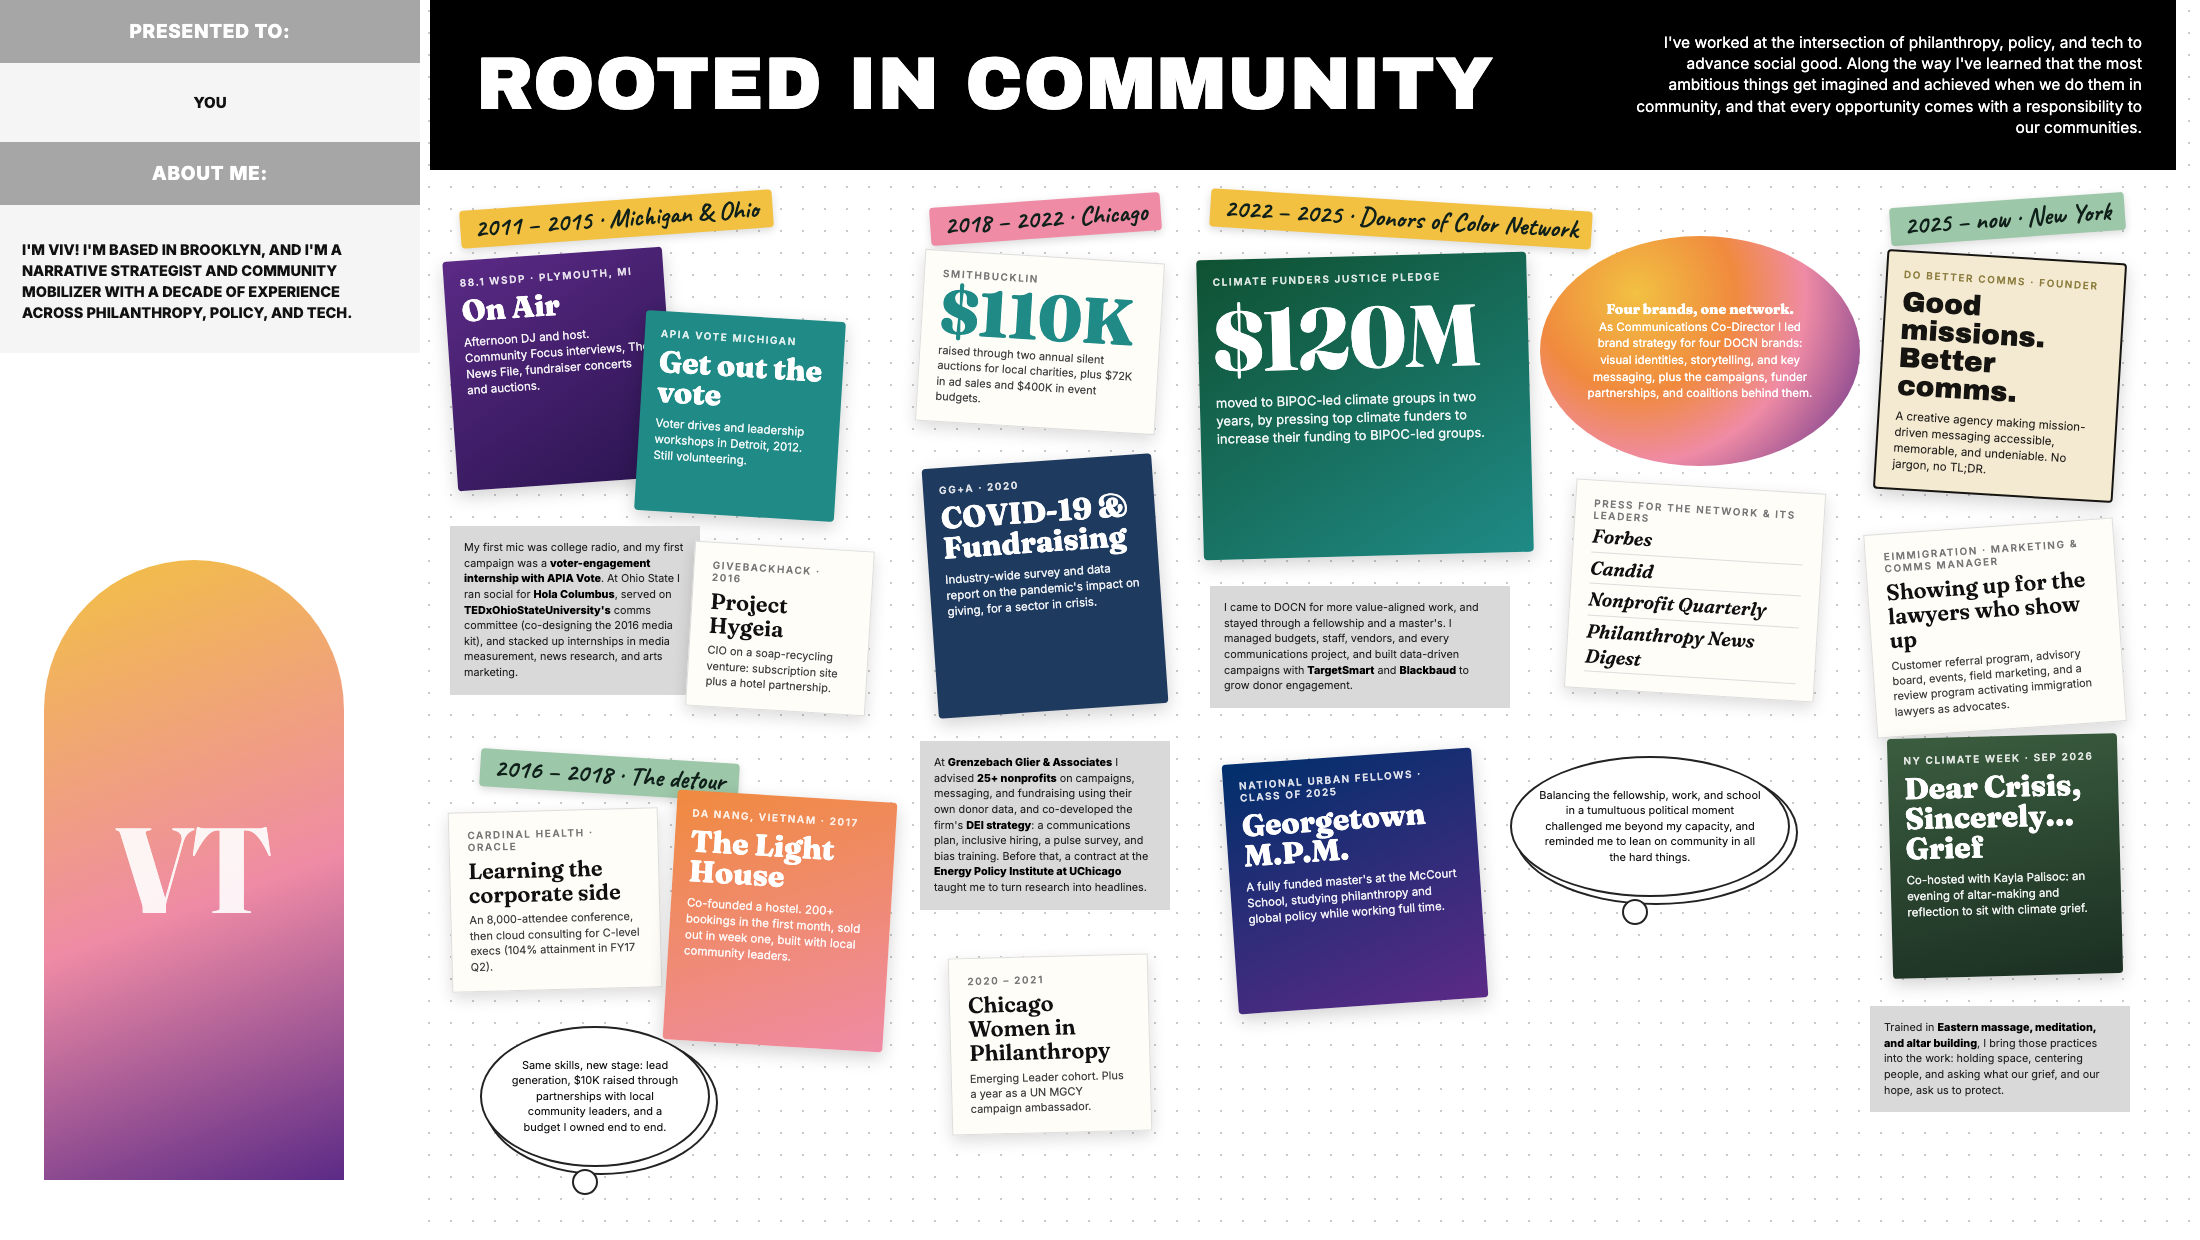
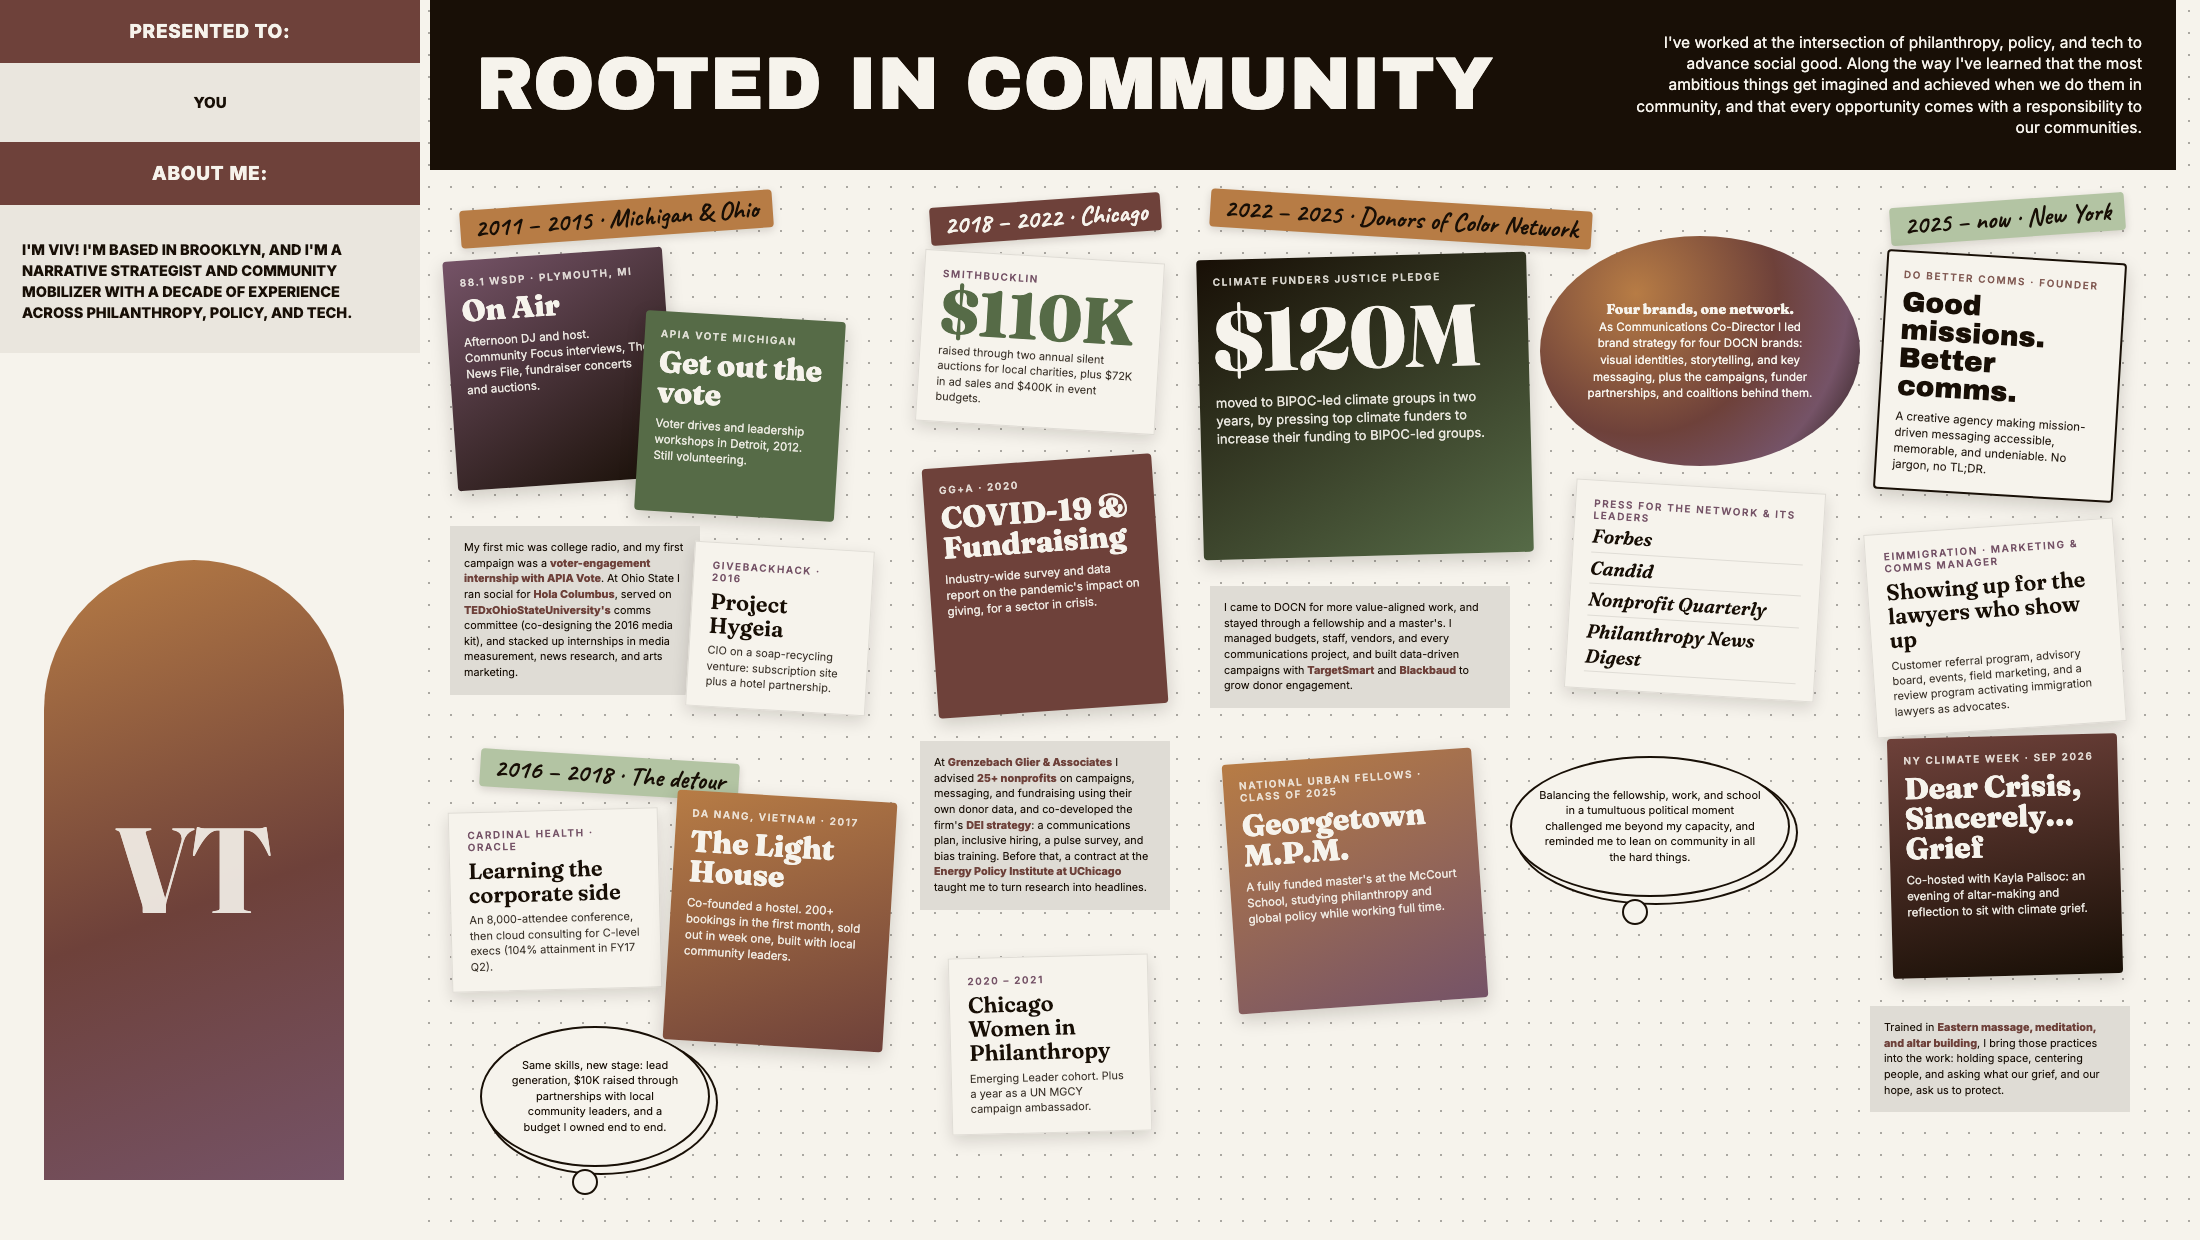
Recolor experience board in the Altarism palette
Altarism brand colors plus a complementary tulsi green; board image re-exported.

diff --git a/experience-board/index.html b/experience-board/index.html
@@ -6,23 +6,23 @@
 <title>Rooted in Community</title>
 <link href="https://fonts.googleapis.com/css2?family=Archivo+Black&family=Fraunces:ital,opsz,wght@0,9..144,600;0,9..144,800;1,9..144,400;1,9..144,600&family=Inter:wght@400;600;800&family=Caveat:wght@600&display=swap" rel="stylesheet">
 <style>
-:root{--ink:#10201a;--lotus:#ef8ba5;--saffron:#f2c142;--sage:#9cc7a8;--plum:#5b2a86;--orange:#f08a3e;--teal:#1f8a86;--paper:#fffdf8;--grey:#a8a8a8}
+:root{/* Altarism palette + Tulsi Green */--ink:#180F06;--cream:#F6F3EC;--ox:#6E413A;--amber:#B77C45;--plum:#755367;--ash:#AAA7A1;--tulsi:#566B47;--tulsi-l:#B3C4A3;--paper:#F6F3EC;--mist:#EAE6DE;--fog:#DFDCD5}
 *{box-sizing:border-box;margin:0;padding:0}
-html,body{background:#e9e6df}
-body{font:12px/1.4 "Inter",sans-serif;color:#111;overflow-x:hidden}
-#stage{width:2200px;height:1240px;transform-origin:0 0;position:relative;background:#fff radial-gradient(#c9c9c9 1.2px,transparent 1.3px) 0 0/22px 22px}
+html,body{background:var(--mist)}
+body{font:12px/1.4 "Inter",sans-serif;color:var(--ink);overflow-x:hidden}
+#stage{width:2200px;height:1240px;transform-origin:0 0;position:relative;background:var(--cream) radial-gradient(var(--ash) 1.2px,transparent 1.3px) 0 0/22px 22px}
 
 /* left column */
-.left{position:absolute;left:0;top:0;width:420px;height:100%;background:#fff}
-.lbl{background:#a6a6a6;color:#fff;font:800 19px "Inter";letter-spacing:.04em;text-align:center;padding:20px 0}
-.val{background:#f5f5f5;text-align:center;font:800 15px "Inter";padding:30px 0}
-.about{background:#f5f5f5;padding:34px 22px 30px;font:800 14.5px/1.45 "Inter";text-transform:uppercase}
-.arch{position:absolute;left:44px;top:560px;width:300px;height:620px;border-radius:150px 150px 0 0;overflow:hidden;background:linear-gradient(160deg,var(--saffron),var(--lotus) 55%,var(--plum));display:grid;place-items:center}
+.left{position:absolute;left:0;top:0;width:420px;height:100%;background:var(--cream)}
+.lbl{background:var(--ox);color:var(--cream);font:800 19px "Inter";letter-spacing:.04em;text-align:center;padding:20px 0}
+.val{background:var(--mist);text-align:center;font:800 15px "Inter";padding:30px 0}
+.about{background:var(--mist);padding:34px 22px 30px;font:800 14.5px/1.45 "Inter";text-transform:uppercase}
+.arch{position:absolute;left:44px;top:560px;width:300px;height:620px;border-radius:150px 150px 0 0;overflow:hidden;background:linear-gradient(160deg,var(--amber),var(--ox) 55%,var(--plum));display:grid;place-items:center}
 .arch img{width:100%;height:100%;object-fit:cover;position:absolute;inset:0}
-.arch span{font:800 120px "Fraunces";color:#fff;opacity:.9}
+.arch span{font:800 120px "Fraunces";color:var(--cream);opacity:.9}
 
 /* header */
-.top{position:absolute;left:430px;top:0;right:24px;height:170px;background:#000;color:#fff;display:flex;align-items:center;justify-content:space-between;padding:0 34px 0 46px;gap:30px}
+.top{position:absolute;left:430px;top:0;right:24px;height:170px;background:var(--ink);color:var(--cream);display:flex;align-items:center;justify-content:space-between;padding:0 34px 0 46px;gap:30px}
 .top h1{font:400 74px/1 "Archivo Black";letter-spacing:.01em;white-space:nowrap}
 .top p{font:500 15.5px/1.38 "Inter";text-align:right;max-width:520px}
 
@@ -31,24 +31,24 @@ body{font:12px/1.4 "Inter",sans-serif;color:#111;overflow-x:hidden}
 .item{position:absolute}
 .tilt-l{transform:rotate(-4deg)} .tilt-r{transform:rotate(3.5deg)} .tilt-s{transform:rotate(-1.5deg)}
 
-.poster{border-radius:4px;box-shadow:0 6px 18px rgba(0,0,0,.18);overflow:hidden;padding:16px;color:#fff}
+.poster{border-radius:4px;box-shadow:0 6px 18px rgba(24,15,6,.18);overflow:hidden;padding:16px;color:var(--cream)}
 .poster img{position:absolute;inset:0;width:100%;height:100%;object-fit:cover}
 .poster .k{font:600 10px "Inter";letter-spacing:.16em;text-transform:uppercase;opacity:.85}
 .poster h3{font:800 30px/1 "Fraunces";margin:8px 0}
 .poster p{font-size:11.5px;opacity:.92}
-.caption{background:#d9d9d9;padding:14px 14px;font-size:10.8px;line-height:1.45;color:#222}
-.caption b{color:#000}
-.cloud{background:#fff;border:2px solid #222;border-radius:50%;padding:30px 26px;text-align:center;font-size:11px;line-height:1.4;box-shadow:6px 6px 0 #fff, 6px 6px 0 2px #222}
-.cloud::after{content:"";position:absolute;width:22px;height:22px;border:2px solid #222;border-radius:50%;background:#fff;bottom:-30px;left:40%}
-.oval{border-radius:50%;padding:42px 44px;color:#fff;font-size:11.5px;line-height:1.45;text-align:center;background:radial-gradient(circle at 30% 25%,var(--saffron),var(--orange) 35%,var(--lotus) 60%,var(--plum));display:grid;place-items:center}
+.caption{background:var(--fog);padding:14px 14px;font-size:10.8px;line-height:1.45;color:var(--ink)}
+.caption b{color:var(--ox)}
+.cloud{background:var(--cream);border:2px solid var(--ink);border-radius:50%;padding:30px 26px;text-align:center;font-size:11px;line-height:1.4;box-shadow:6px 6px 0 var(--cream), 6px 6px 0 2px var(--ink)}
+.cloud::after{content:"";position:absolute;width:22px;height:22px;border:2px solid var(--ink);border-radius:50%;background:var(--cream);bottom:-30px;left:40%}
+.oval{border-radius:50%;padding:42px 44px;color:var(--cream);font-size:11.5px;line-height:1.45;text-align:center;background:radial-gradient(circle at 30% 25%,var(--amber),var(--ox) 50%,var(--plum) 75%,var(--ink));display:grid;place-items:center}
 .oval b{font:800 14px "Fraunces"}
-.sticker{white-space:nowrap;font:600 26px/1 "Caveat",cursive;color:var(--ink);background:var(--saffron);padding:6px 14px;border-radius:4px;box-shadow:0 3px 8px rgba(0,0,0,.15)}
-.clip{background:var(--paper);border:1px solid #ddd;box-shadow:0 6px 16px rgba(0,0,0,.14);padding:16px 18px}
-.clip .k{font:600 10px "Inter";letter-spacing:.16em;text-transform:uppercase;color:#777}
+.sticker{white-space:nowrap;font:600 26px/1 "Caveat",cursive;color:var(--ink);background:var(--amber);padding:6px 14px;border-radius:4px;box-shadow:0 3px 8px rgba(24,15,6,.15)}
+.clip{background:var(--paper);border:1px solid var(--fog);box-shadow:0 6px 16px rgba(24,15,6,.14);padding:16px 18px}
+.clip .k{font:600 10px "Inter";letter-spacing:.16em;text-transform:uppercase;color:var(--plum)}
 .clip h3{font:600 22px/1.1 "Fraunces";margin:6px 0}
-.clip p{font-size:11px;color:#444}
+.clip p{font-size:11px;color:var(--ink);opacity:.82}
 .big{font:800 64px/1 "Fraunces"}
-.press span{display:block;font:italic 600 19px/1.3 "Fraunces";border-bottom:1px solid #ddd;padding:3px 0}
+.press span{display:block;font:italic 600 19px/1.3 "Fraunces";border-bottom:1px solid var(--fog);padding:3px 0}
 </style>
 </head>
 <body>
@@ -71,10 +71,10 @@ body{font:12px/1.4 "Inter",sans-serif;color:#111;overflow-x:hidden}
 
     <!-- ERA 1: on air & on the ground -->
     <div class="item sticker tilt-l" style="left:10px;top:4px">2011 – 2015 · Michigan &amp; Ohio</div>
-    <div class="item poster tilt-l" style="left:0;top:58px;width:220px;height:230px;background:linear-gradient(150deg,var(--plum),#2a1450)">
+    <div class="item poster tilt-l" style="left:0;top:58px;width:220px;height:230px;background:linear-gradient(150deg,var(--plum),var(--ink))">
       <div class="k">88.1 WSDP · Plymouth, MI</div><h3>On Air</h3><p>Afternoon DJ and host. Community Focus interviews, The News File, fundraiser concerts and auctions.</p>
       <img src="images/wsdp.jpg" alt="" onerror="this.remove()"></div>
-    <div class="item poster tilt-r" style="left:190px;top:120px;width:200px;height:200px;background:var(--teal)">
+    <div class="item poster tilt-r" style="left:190px;top:120px;width:200px;height:200px;background:var(--tulsi)">
       <div class="k">APIA Vote Michigan</div><h3>Get out the vote</h3><p>Voter drives and leadership workshops in Detroit, 2012. Still volunteering.</p>
       <img src="images/apia-vote.jpg" alt="" onerror="this.remove()"></div>
     <div class="item caption" style="left:0;top:330px;width:250px">My first mic was college radio, and my first campaign was a <b>voter-engagement internship with APIA Vote</b>. At Ohio State I ran social for <b>Hola Columbus</b>, served on <b>TEDxOhioStateUniversity's</b> comms committee (co-designing the 2016 media kit), and stacked up internships in media measurement, news research, and arts marketing.</div>
@@ -82,19 +82,19 @@ body{font:12px/1.4 "Inter",sans-serif;color:#111;overflow-x:hidden}
       <div class="k">GiveBackHack · 2016</div><h3>Project Hygeia</h3><p>CIO on a soap-recycling venture: subscription site plus a hotel partnership.</p></div>
 
     <!-- ERA 2: detour -->
-    <div class="item sticker tilt-r" style="left:30px;top:560px;background:var(--sage)">2016 – 2018 · The detour</div>
+    <div class="item sticker tilt-r" style="left:30px;top:560px;background:var(--tulsi-l)">2016 – 2018 · The detour</div>
     <div class="item clip tilt-s" style="left:0;top:614px;width:210px">
       <div class="k">Cardinal Health · Oracle</div><h3>Learning the corporate side</h3><p>An 8,000-attendee conference, then cloud consulting for C-level execs (104% attainment in FY17 Q2).</p></div>
-    <div class="item poster tilt-r" style="left:220px;top:600px;width:220px;height:250px;background:linear-gradient(160deg,var(--orange),var(--lotus))">
+    <div class="item poster tilt-r" style="left:220px;top:600px;width:220px;height:250px;background:linear-gradient(160deg,var(--amber),var(--ox))">
       <div class="k">Da Nang, Vietnam · 2017</div><h3>The Light House</h3><p>Co-founded a hostel. 200+ bookings in the first month, sold out in week one, built with local community leaders.</p>
       <img src="images/light-house.jpg" alt="" onerror="this.remove()"></div>
     <div class="item cloud" style="left:30px;top:830px;width:230px;position:absolute">Same skills, new stage: lead generation, $10K raised through partnerships with local community leaders, and a budget I owned end to end.</div>
 
     <!-- ERA 3: Chicago -->
-    <div class="item sticker tilt-l" style="left:480px;top:4px;background:var(--lotus)">2018 – 2022 · Chicago</div>
+    <div class="item sticker tilt-l" style="left:480px;top:4px;background:var(--ox);color:var(--cream)">2018 – 2022 · Chicago</div>
     <div class="item clip tilt-r" style="left:470px;top:60px;width:240px">
-      <div class="k">SmithBucklin</div><div class="big" style="color:var(--teal)">$110K</div><p>raised through two annual silent auctions for local charities, plus $72K in ad sales and $400K in event budgets.</p></div>
-    <div class="item poster tilt-l" style="left:480px;top:265px;width:230px;height:250px;background:#1e3a5f">
+      <div class="k">SmithBucklin</div><div class="big" style="color:var(--tulsi)">$110K</div><p>raised through two annual silent auctions for local charities, plus $72K in ad sales and $400K in event budgets.</p></div>
+    <div class="item poster tilt-l" style="left:480px;top:265px;width:230px;height:250px;background:var(--ox)">
       <div class="k">GG+A · 2020</div><h3>COVID-19 &amp; Fundraising</h3><p>Industry-wide survey and data report on the pandemic's impact on giving, for a sector in crisis.</p>
       <img src="images/gga-covid-report.jpg" alt="" onerror="this.remove()"></div>
     <div class="item caption" style="left:470px;top:545px;width:250px">At <b>Grenzebach Glier &amp; Associates</b> I advised <b>25+ nonprofits</b> on campaigns, messaging, and fundraising using their own donor data, and co-developed the firm's <b>DEI strategy</b>: a communications plan, inclusive hiring, a pulse survey, and bias training. Before that, a contract at the <b>Energy Policy Institute at UChicago</b> taught me to turn research into headlines.</div>
@@ -102,8 +102,8 @@ body{font:12px/1.4 "Inter",sans-serif;color:#111;overflow-x:hidden}
       <div class="k">2020 – 2021</div><h3>Chicago Women in Philanthropy</h3><p>Emerging Leader cohort. Plus a year as a UN MGCY campaign ambassador.</p></div>
 
     <!-- ERA 4: DOCN -->
-    <div class="item sticker tilt-r" style="left:760px;top:4px;background:var(--saffron)">2022 – 2025 · Donors of Color Network</div>
-    <div class="item poster tilt-s" style="left:750px;top:60px;width:330px;height:300px;background:linear-gradient(150deg,#0f5132,var(--teal))">
+    <div class="item sticker tilt-r" style="left:760px;top:4px;background:var(--amber)">2022 – 2025 · Donors of Color Network</div>
+    <div class="item poster tilt-s" style="left:750px;top:60px;width:330px;height:300px;background:linear-gradient(150deg,var(--ink),var(--tulsi))">
       <div class="k">Climate Funders Justice Pledge</div><div class="big" style="font-size:86px;margin:10px 0">$120M</div><p style="font-size:13px">moved to BIPOC-led climate groups in two years, by pressing top climate funders to increase their funding to BIPOC-led groups.</p>
       <img src="images/cfjp.jpg" alt="" onerror="this.remove()"></div>
     <div class="item oval" style="left:1090px;top:40px;width:320px;height:230px"><div><b>Four brands, one network.</b><br>As Communications Co-Director I led brand strategy for four DOCN brands: visual identities, storytelling, and key messaging, plus the campaigns, funder partnerships, and coalitions behind them.</div></div>
@@ -111,19 +111,19 @@ body{font:12px/1.4 "Inter",sans-serif;color:#111;overflow-x:hidden}
       <div class="k">Press for the network &amp; its leaders</div>
       <span>Forbes</span><span>Candid</span><span>Nonprofit Quarterly</span><span>Philanthropy News Digest</span></div>
     <div class="item caption" style="left:760px;top:390px;width:300px">I came to DOCN for more value-aligned work, and stayed through a fellowship and a master's. I managed budgets, staff, vendors, and every communications project, and built data-driven campaigns with <b>TargetSmart</b> and <b>Blackbaud</b> to grow donor engagement.</div>
-    <div class="item poster tilt-l" style="left:780px;top:560px;width:250px;height:250px;background:linear-gradient(160deg,#002f6c,#5b2a86)">
+    <div class="item poster tilt-l" style="left:780px;top:560px;width:250px;height:250px;background:linear-gradient(160deg,var(--amber),var(--plum))">
       <div class="k">National Urban Fellows · Class of 2025</div><h3>Georgetown M.P.M.</h3><p>A fully funded master's at the McCourt School, studying philanthropy and global policy while working full time.</p>
       <img src="images/nuf-georgetown.jpg" alt="" onerror="this.remove()"></div>
     <div class="item cloud" style="left:1060px;top:560px;width:280px;position:absolute">Balancing the fellowship, work, and school in a tumultuous political moment challenged me beyond my capacity, and reminded me to lean on community in all the hard things.</div>
 
     <!-- ERA 5: now -->
-    <div class="item sticker tilt-l" style="left:1440px;top:4px;background:var(--sage)">2025 – now · New York</div>
-    <div class="item poster tilt-r" style="left:1430px;top:60px;width:240px;height:240px;background:#f4ead2;color:#161411;border:2px solid #161411">
-      <div class="k" style="color:#7a6a25">Do Better Comms · Founder</div><h3 style="font-family:'Archivo Black';font-weight:400;font-size:28px">Good missions. Better comms.</h3><p>A creative agency making mission-driven messaging accessible, memorable, and undeniable. No jargon, no TL;DR.</p>
+    <div class="item sticker tilt-l" style="left:1440px;top:4px;background:var(--tulsi-l)">2025 – now · New York</div>
+    <div class="item poster tilt-r" style="left:1430px;top:60px;width:240px;height:240px;background:var(--cream);color:var(--ink);border:2px solid var(--ink)">
+      <div class="k" style="color:var(--ox)">Do Better Comms · Founder</div><h3 style="font-family:'Archivo Black';font-weight:400;font-size:28px">Good missions. Better comms.</h3><p>A creative agency making mission-driven messaging accessible, memorable, and undeniable. No jargon, no TL;DR.</p>
       <img src="images/do-better-comms.jpg" alt="" onerror="this.remove()"></div>
     <div class="item clip tilt-l" style="left:1420px;top:330px;width:250px">
       <div class="k">eimmigration · Marketing &amp; Comms Manager</div><h3>Showing up for the lawyers who show up</h3><p>Customer referral program, advisory board, events, field marketing, and a review program activating immigration lawyers as advocates.</p></div>
-    <div class="item poster tilt-s" style="left:1440px;top:540px;width:230px;height:240px;background:linear-gradient(170deg,#3b5d3f,#1b2f22)">
+    <div class="item poster tilt-s" style="left:1440px;top:540px;width:230px;height:240px;background:linear-gradient(170deg,var(--ox),var(--ink))">
       <div class="k">NY Climate Week · Sep 2026</div><h3>Dear Crisis, Sincerely… Grief</h3><p>Co-hosted with Kayla Palisoc: an evening of altar-making and reflection to sit with climate grief.</p>
       <img src="images/dear-crisis.jpg" alt="" onerror="this.remove()"></div>
     <div class="item caption" style="left:1420px;top:810px;width:260px">Trained in <b>Eastern massage, meditation, and altar building</b>, I bring those practices into the work: holding space, centering people, and asking what our grief, and our hope, ask us to protect.</div>
